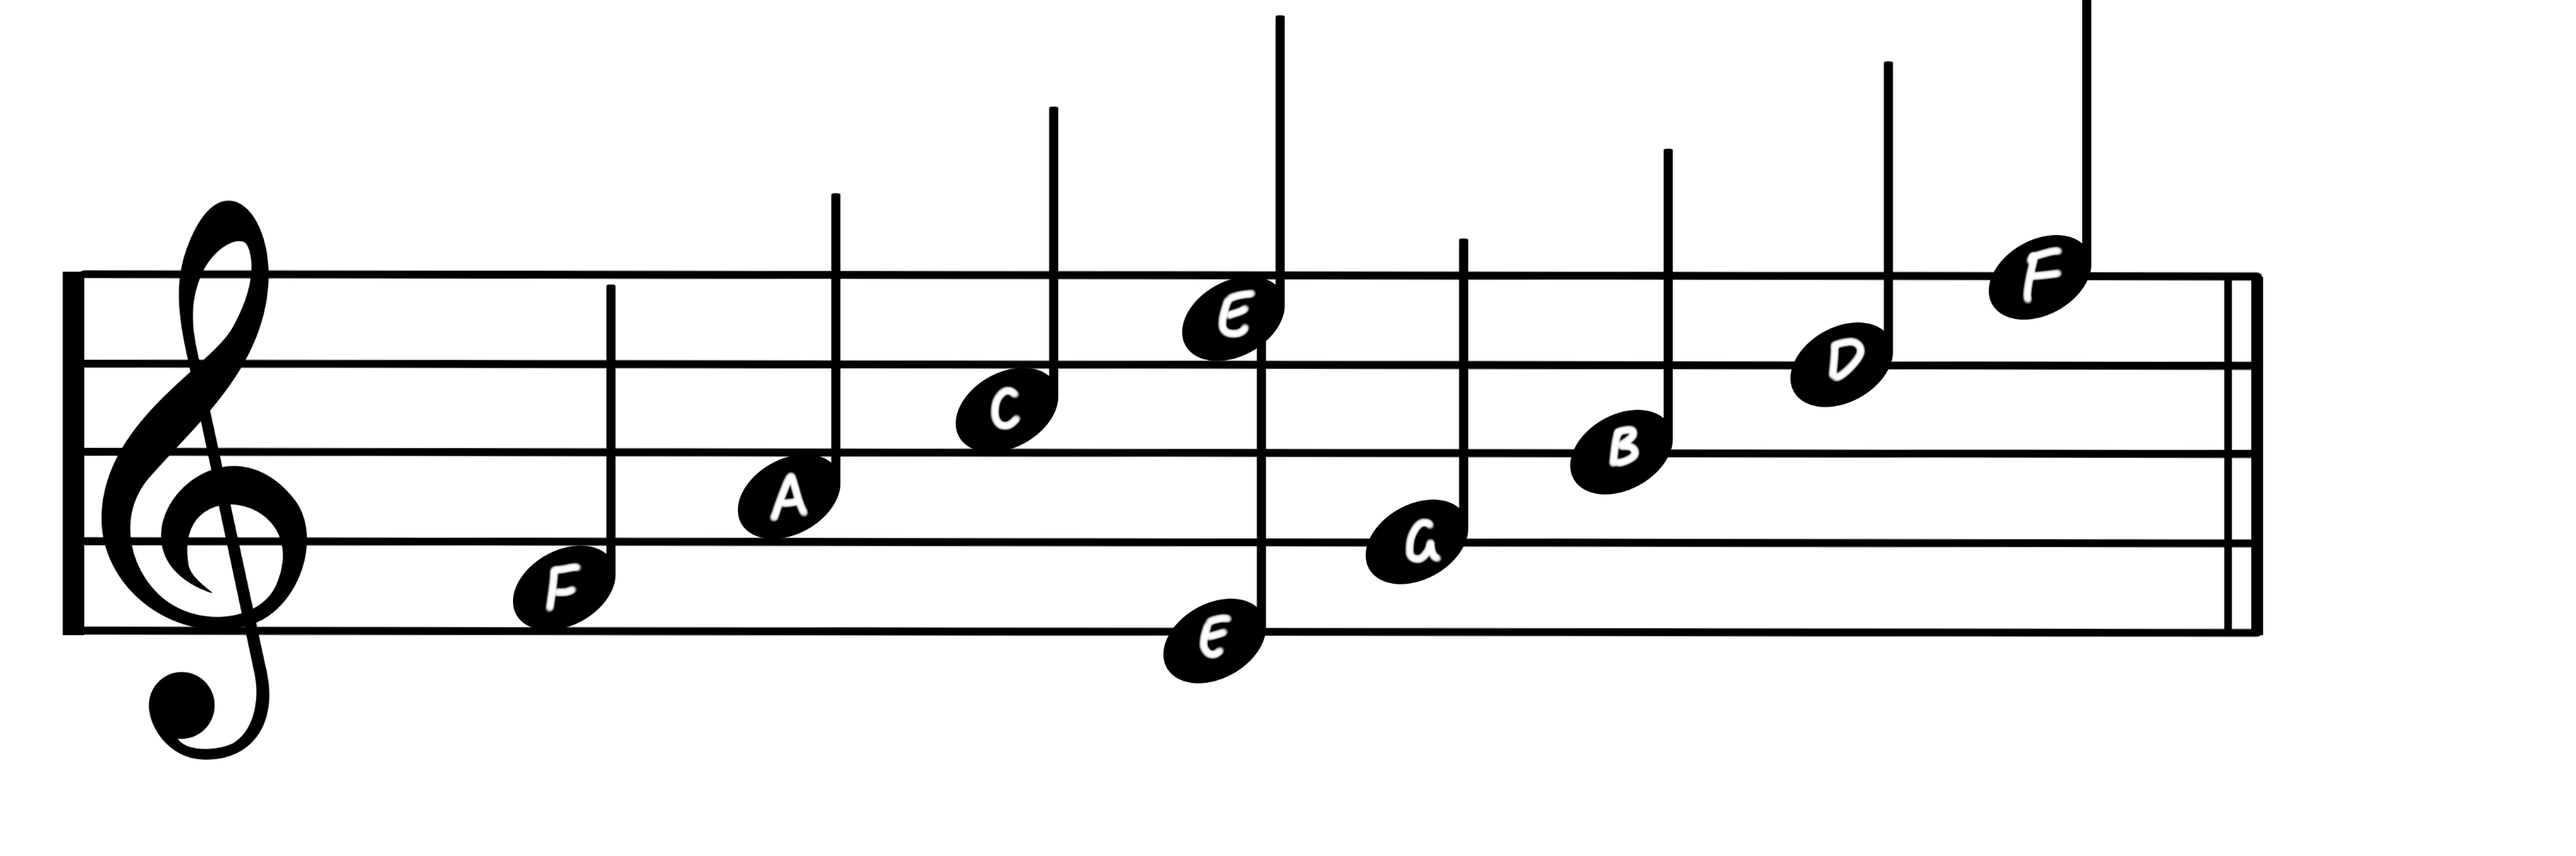
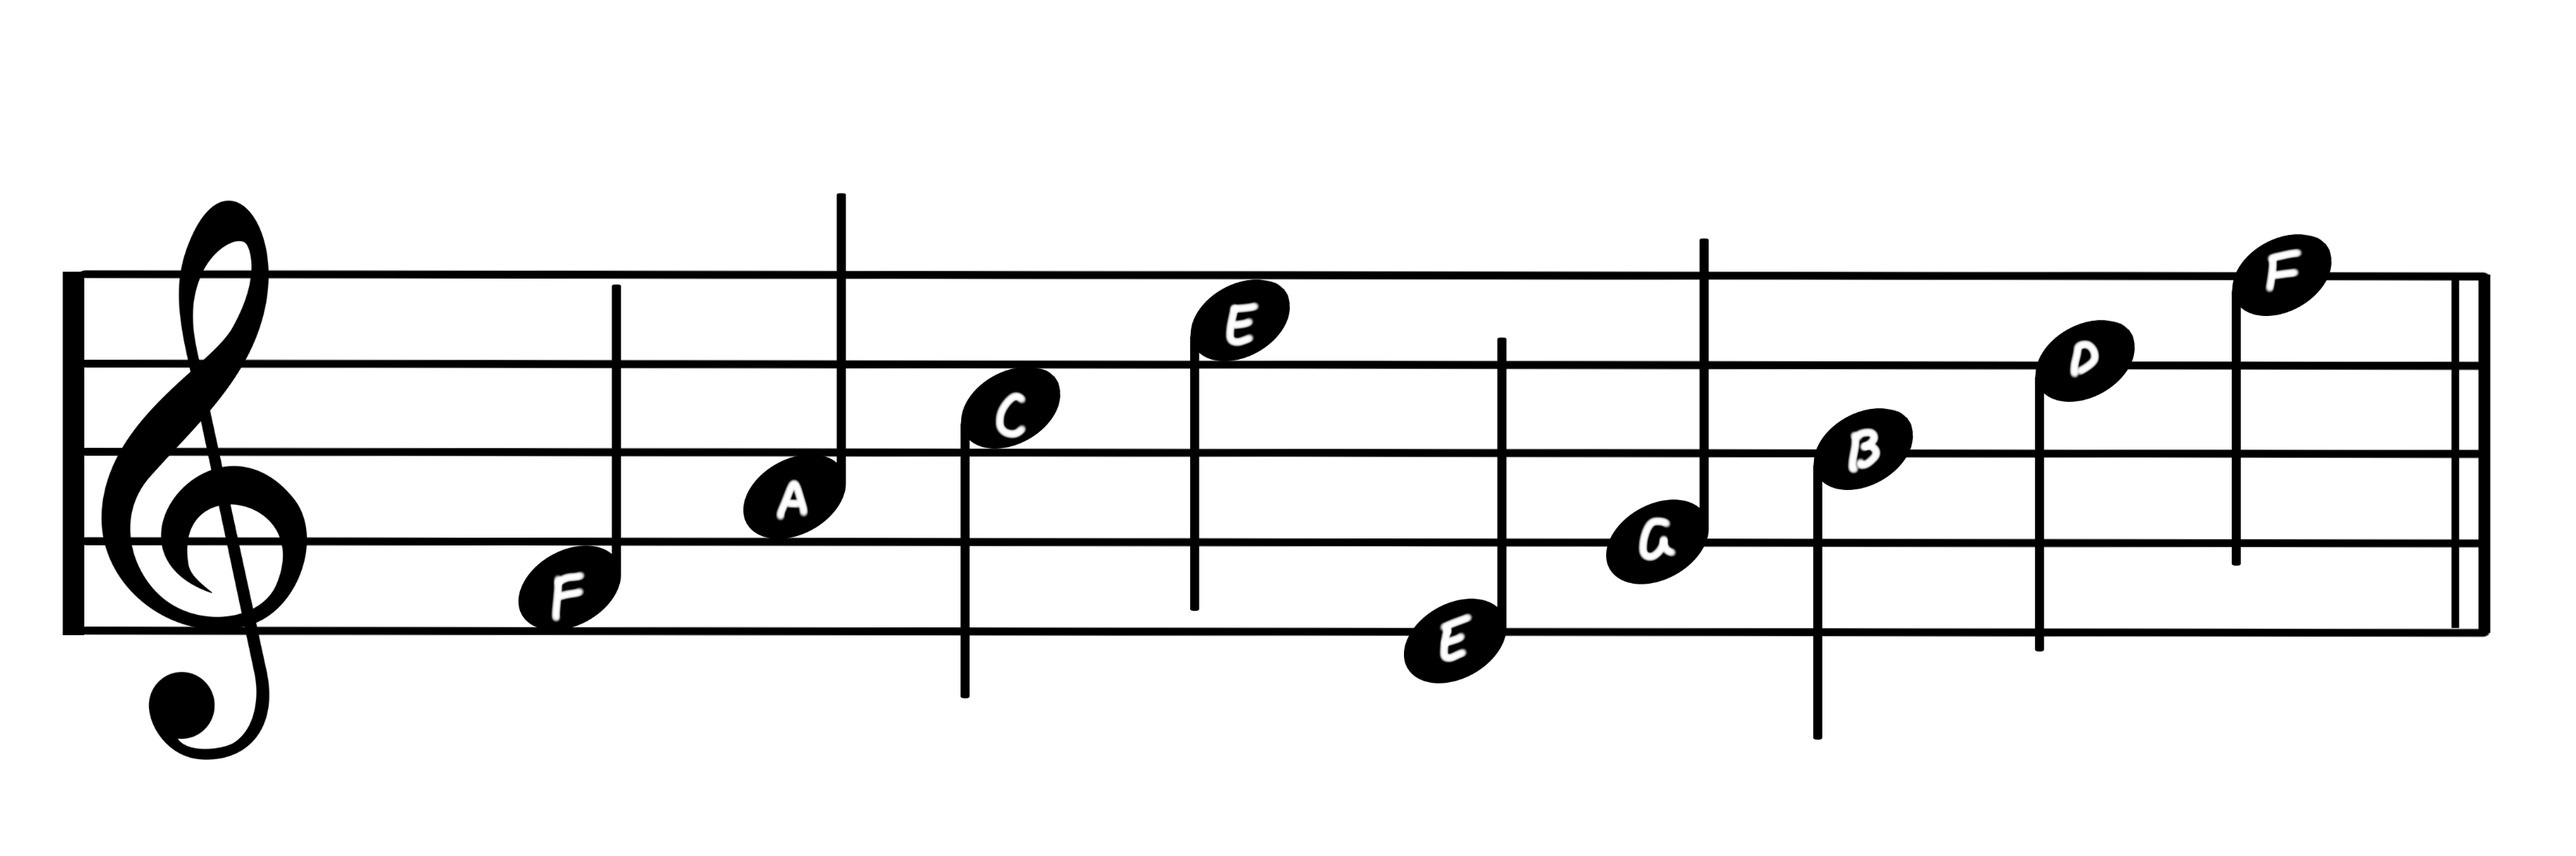
more learning

diff --git a/js/learn.js b/js/learn.js
@@ -1,11 +1,15 @@
 
 $('.birdGuide').hide();
-$('#disclaimer').hide();
+$('.noteButton').hide();
+$('.note').hide();
 $('#bass').hide();
 $('#TS').hide();
 $('.fullScale').hide();
 $('#birdHappy').show();
+$('#btnSkip').hide();
 
+$('#btnReady').hide();
+$('#btnNotready').hide();
 
 
 var sound = document.getElementById("sound");
@@ -17,9 +21,9 @@ let click = 0;
 // $('#birdTalk').animate( { width: spanWidth }, 1500 );
 
 $('#next').click(function(){
-    sound.load();
-    sound.play();
     
+    clickSound();
+
     click = click + 1;
     console.log(click);
     
@@ -28,7 +32,12 @@ $('#next').click(function(){
     switch(click){
         case 1:
             $('#birdTalk span').text('Let' + "'" +'s go over the basics shall we?');
+            $('#birdHappy').show();
             //set width to 0 once again
+            $('#btnReady').hide();
+            $('#btnNotready').hide();
+            $('#btnSkip').show();
+            // $('#btnSkip').hide();
         
             // $('#birdTalk').animate( { width: spanWidth }, 1000 );
             // ('#birdExplain1').effect( "bounce", {times:1}, 300 );
@@ -73,7 +82,7 @@ $('#next').click(function(){
 
         case 7:
             $('#birdTalk span').text('The stave is significantly important for the placement of these music notes as each position represents a certain key as you can see here!');
-            $('#disclaimer').show();
+            // $('#disclaimer').show();
 
             $('#birdExplain1').hide();
             $('#birdHappy').show();
@@ -112,12 +121,159 @@ $('#next').click(function(){
 
             $('#birdExplain2').hide();
             $('#birdExplain1').show();
+            $('.noteButton').show();
         break;
 
         case 11:
             $('#birdTalk span').text('I got nothin help');
+
+        break;
+
+        case 12:
+            $('#birdTalk span').text('There are many more complex symbols and notations that are used in Music but we can go over those later.');
+            $('#birdComplex').show();
+            doBounce($('#birdComplex'), 1, '30px', 300);
+
+            $('#birdExplain1').hide();
+        
+        break;
+
+        case 13:
+            $('#birdTalk span').text('It looks like we' + "'" + 're done with the basics! Ready to test your knowledge?' );
+            $('#birdHappy').show();
+            $('#birdComplex').hide();
+            $('#next').hide();
+
+            $('#btnReady').show();
+            $('#btnNotready').show();
+
+
+            $('.line').show();
+            $('#treble').show();
+            $('#TS').show();
+            $('.staveLines').show();
+            $('#acronymScale').hide();
+
+
+            doBounce($('#birdHappy'), 1, '30px', 300);
     }
 }); 
+
+$('#btnSkip').click(function(){
+    clickSound();
+
+    $('#birdShock').show();
+    $('#birdHappy').hide();
+    $('#birdExplain1').hide();
+    $('#birdExplain2').hide();
+    $('#birdComplex').hide();
+    $('.noteButton').hide();
+
+
+
+    doBounce($('#birdShock'), 1, '30px', 300);
+    $('#birdTalk span').text('Wow! You already know this stuff? Would you like to test your knowledge?');
+
+    $('#btnReady').show();
+    $('#btnNotready').show();
+    $('#next').hide();
+    $('#btnSkip').hide();
+});
+
+
+$('#btnNotready').click(function(){
+    clickSound();
+
+    $('#birdTalk span').text('Choose what you would like to revise!');
+    $('#birdShock').hide(); //skipped through guide
+    $('#birdHappy').hide(); //gone through guide
+
+    $('#birdExplain2').show();
+    // $('#btnReady').hide();
+    $('#btnNotready').hide();
+
+    $('.noteButton').show();
+});
+
+
+
+
+
+
+
+
+
+$('#C').click(function(){
+    staveDisplay();
+    $('#cNote').show();
+    $('#birdTalk span').text('This is note C');
+
+});
+
+$('#D').click(function(){
+    staveDisplay();
+    $('#dNote').show();
+    $('#birdTalk span').text('This is note D');
+
+    
+});
+
+$('#E').click(function(){
+    staveDisplay();
+    $('#eNote').show();
+    $('#birdTalk span').text('This is note E');
+});
+
+$('#F').click(function(){
+    staveDisplay();
+    $('#fNote').show();
+    $('#birdTalk span').text('This is note F');
+});
+
+$('#G').click(function(){
+    staveDisplay();
+    $('#gNote').show();
+    $('#birdTalk span').text('This is note G');
+});
+
+$('#A').click(function(){
+    staveDisplay();
+    $('#aNote').show();
+    $('#birdTalk span').text('This is note A');
+});
+
+$('#B').click(function(){
+    staveDisplay();
+    $('#bNote').show();
+    $('#birdTalk span').text('This is note B');
+});
+
+$('#C2').click(function(){
+    staveDisplay();
+    $('#c2Note').show();
+    $('#birdTalk span').text('This is note C');
+});
+
+$('#D2').click(function(){
+    staveDisplay();
+    $('#d2Note').show();
+    $('#birdTalk span').text('This is note D');
+});
+
+$('#E2').click(function(){
+    staveDisplay();
+    $('#e2Note').show();
+    $('#birdTalk span').text('This is note E');
+});
+
+$('#F2').click(function(){
+    staveDisplay();
+    $('#f2Note').show();
+    $('#birdTalk span').text('This is note F');
+});
+
+
+
 
 //Bouncing function for every animation replacement
 function doBounce(element, times, distance, speed) {
@@ -134,3 +290,28 @@ function doBounce(element, times, distance, speed) {
 //     click = click - 1
 //     console.log(click);
 // });
+
+
+//click sound function
+function clickSound(){
+    sound.load();
+    sound.play();
+}
+
+
+function staveDisplay(){
+    sound.load();
+    sound.play();
+
+    $('.fullScale').hide();
+    $('#bass').hide();
+    $('.note').hide();
+
+
+    $('#treble').show();
+    $('.line').show();
+    $('.staveLines').show();
+    $('#TS').show();
+    
+
+}

diff --git a/learn.htm b/learn.htm
@@ -18,19 +18,39 @@
 <audio id="sound" src="./audio/click3.mp3" type="audio/mpeg" preload="auto"></audio>
 <button class="buttons" id="next">=></button>
 <button class="buttons" id="previous">previous</button>
+<button class="buttons" id="btnReady" onclick= "location.href='./quiz.htm'">Ready</button>
+<button class="buttons" id="btnNotready">I'm Not Ready</button>
+<button class="buttons" id="btnSkip">Skip</button>
+
+<button class="noteButton" id="C">C</button>
+<button class="noteButton" id="D">D</button>
+<button class="noteButton" id="E">E</button>
+<button class="noteButton" id="F">F</button>
+<button class="noteButton" id="G">G</button>
+<button class="noteButton" id="A">A</button>
+<button class="noteButton" id="B">B</button>
+
+<button class="noteButton" id="C2">C2</button>
+<button class="noteButton" id="D2">D2</button>
+<button class="noteButton" id="E2">E2</button>
+<button class="noteButton" id="F2">F2</button>
 
 
 <h1>Learning branch</h1>
 
+<div id="name">Tempi</div>
+
 <!-- guide images -->
 <img class="birdGuide" id="birdExplain1" src="images/birdExplain1.png"></img>
 <img class="birdGuide" id="birdExplain2" src="images/birdExplain2.png"></img>
-<img class="birdGuide" id= "birdHappy" src="images/birdHappy.png"></img>
+<img class="birdGuide" id="birdHappy" src="images/birdHappy.png"></img>
+<img class="birdGuide" id="birdComplex" src="images/birdComplex.png"></img>
+<img class="birdGuide" id="birdShock" src="images/birdShock.png"></img>
 
 <div class="talkBubble" id="welcome"></div>
 <div class="talkBubble" id="explain"></div>
 
-<div class ="talk" id="birdTalk"><span>Welcome to wendysings! My name is Temmi. </span></div>
+<div class ="talk" id="birdTalk"><span>Welcome to wendysings! My name is Tempi. </span></div>
 
 
 <div class="staveLines" id="staveLine1"></div>
@@ -51,6 +71,19 @@
 <img class="line" id="lineB" src="images/staffLine.png"></img>
 <img class="line" id="lineD" src="images/staffLine.png"></img>
 <img class="line" id="lineF" src="images/staffLine.png"></img>
+
+<img class="note" id="cNote" src="images/crotchetC.png"></img>
+<img class="note" id="dNote" src="images/crotchet.png"></img>
+<img class="note" id="eNote" src="images/crotchet.png"></img>
+<img class="note" id="fNote" src="images/crotchet.png"></img>
+<img class="note" id="gNote" src="images/crotchet.png"></img>
+<img class="note" id="aNote" src="images/crotchet.png"></img>
+<img class="note" id="bNote" src="images/ucrotchet.png"></img>
+<img class="note" id="c2Note" src="images/ucrotchet.png"></img>
+<img class="note" id="d2Note" src="images/ucrotchet.png"></img>
+<img class="note" id="e2Note" src="images/ucrotchet.png"></img>
+<img class="note" id="f2Note" src="images/ucrotchet.png"></img>
+
 
 <img class="fullScale" id="fullScale" src="images/fullScale.png"></img>
 <img class="fullScale" id="acronymScale" src="images/acronymScale.png"></img>

diff --git a/quiz.htm b/quiz.htm
@@ -1,0 +1,25 @@
+<!DOCTYPE html>
+<html>
+<head>
+    <title> Music game </title>
+    <link rel="stylesheet" href="css/quiz.css">
+    <link rel="icon" type="image/jpg" href="images/aBird.png">
+    <script src="https://code.jquery.com/jquery-3.6.0.js" integrity="sha256-H+K7U5CnXl1h5ywQfKtSj8PCmoN9aaq30gDh27Xc0jk=" crossorigin="anonymous"></script>
+    <script src="https://code.jquery.com/ui/1.12.1/jquery-ui.js" integrity="sha256-T0Vest3yCU7pafRw9r+settMBX6JkKN06dqBnpQ8d30=" crossorigin="anonymous"></script>
+    <!-- <script src="https://cdn.jsdelivr.net/npm/p5@1.4.1/lib/p5.js"></script> -->
+</head>
+<body>
+
+<!-- Navigation bar -->
+<button class="buttons" id="btnBack" onclick= "location.href='./choosesomething.htm'"><-</button>
+<button class="buttons" id="btnMenu" onclick= "location.href='./index.htm'"> Main Menu </button>
+<div id="bar"></div>
+<audio id="sound" src="./audio/click3.mp3" type="audio/mpeg" preload="auto"></audio>
+<h1>Quiz branch</h1>
+
+
+
+
+<script type="text/javascript" src="js/quiz.js"></script>
+</body> 
+</html>

diff --git a/css/quiz.css b/css/quiz.css
@@ -47,7 +47,6 @@ h1{
     right: 70px;
     background-color: rgb(127, 232, 164);
     top: 670px;
-    width: 100px;
 }
 
 
@@ -116,7 +115,7 @@ h1{
 }
 
 .talk{
-    bottom: 220px;
+    bottom: 230px;
     position: absolute;
     left: 325px;
 
@@ -293,16 +292,3 @@ h1{
 
 #cNote{top: 270px;}#dNote{top:225px}#eNote{top: 190px}#fNote{top: 150px}#gNote{top: 110px}#aNote{top: 68px}#bNote{top: 270px}
 #c2Note{top: 230px}#d2Note{top: 190px}#e2Note{top: 150px}#f2Note{top: 110px}
-
-#name{
-    position: absolute;
-    background-color: rgb(165, 116, 255);
-    width: 130px;
-    height: 30px;
-    
-    text-align: center;
-    font-size: 20px;
-    border-radius: 10px;
-    bottom: 280px;
-    left: 320px;
-}

diff --git a/choosesomething.htm b/choosesomething.htm
@@ -14,7 +14,7 @@
         <button class="buttons" id="btnBack" onclick= "location.href='./index.htm'"><-</button>
 
         <img class="box" id="learn" src="images/learning.png" onclick="location.href='./learn.htm'"></img>
-        <img class="box" id="compose" onclick= "location.href='./composing.htm'"></img>
+        <img class="box" id="compose" src="images/temmiBird.png" onclick= "location.href='./composing.htm'"></img>
         <img class="box" id="play" src="images/rhythmOption.png" onclick= "location.href='./rhythm.htm'"></img>
 
         <h2 class="text" id="learnText">LEARN</h2>

diff --git a/css/choosesomething.css b/css/choosesomething.css
@@ -87,7 +87,6 @@ h1{ /* this is off with console */
     top: 330px;
     left: 650px;
     background-size: contain;
-    background-image: url("../images/temmiBird.png");
     background-repeat: no-repeat;
     background-position-x: 40px;
 }

diff --git a/css/composing.css b/css/composing.css
@@ -67,7 +67,7 @@ h1{
     background-repeat: no-repeat;
     background-position-y: -250px;
     background-position-x: 200px;
-    background-size: 300px;
+    background-size: 400px;
 
 
 }
